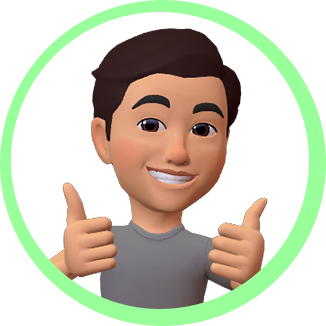
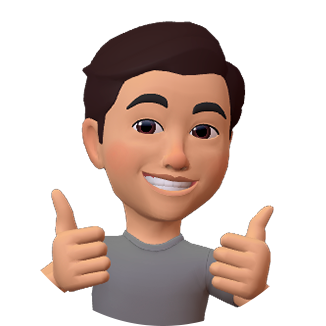
Portafolio

Changed region(s): [[0.0, 0.0, 1.0, 1.0]]

diff --git a/styles/main.scss b/styles/main.scss
@@ -139,6 +139,10 @@ main {
       img{
         display: block;
         width: 100%;
+        border: 18px solid #bcff8e;
+        border-radius: 100%;
+        transition: all 0.8s;
+        box-shadow: 0 10px 20px -8px rgba(0, 0, 0,.7);
       }
     }
     .about-me-img-sm {
@@ -365,7 +369,6 @@ main {
       width: 308px;
       height: 218px;
       background-color: #00cf95;
-      //border: 4px solid #d1ffa2;
       margin-right: 20px;
       margin-bottom: 18px;
       position: relative;

diff --git a/styles/main.css b/styles/main.css
@@ -345,6 +345,12 @@ main section h2 {
 .about-me .about-me-img figure img {
   display: block;
   width: 100%;
+  border: 18px solid #bcff8e;
+  border-radius: 100%;
+  -webkit-transition: all 0.8s;
+  transition: all 0.8s;
+  -webkit-box-shadow: 0 10px 20px -8px rgba(0, 0, 0, 0.7);
+          box-shadow: 0 10px 20px -8px rgba(0, 0, 0, 0.7);
 }
 
 .about-me .about-me-img .about-me-img-sm {
